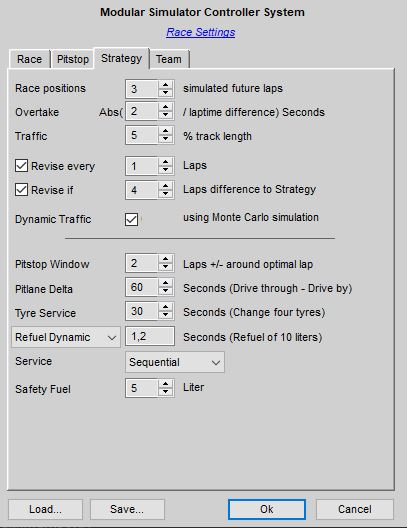
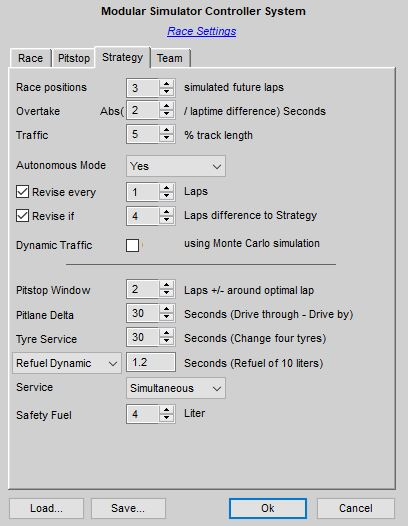
Documentation Update

Changed region(s): [[0.0, 0.0, 0.973, 1.0]]

diff --git a/Docs/Virtual Race Strategist.md b/Docs/Virtual Race Strategist.md
@@ -133,6 +133,8 @@ With the second field, *Overtake Delta*, you specify the number of seconds as ti
 
 You can also activate an automatic revision of a the [currently chosen strategy](https://github.com/SeriousOldMan/Simulator-Controller/wiki/Virtual-Race-Strategist#strategy-handling) with respect to the current race situation and current and maybe upcoming weather conditions. If a better strategy can be derived (depending on available data in the session database), Cato will inform you and you might decide to activate the new strategy. Please note, that you can also ask the Strategist anytime to revise the strategy during a race, if you don't want to enable this automatism. Two different triggers can be defined for the recalculation, either automatic after a number of laps has been driven, or when an unplanned pitstop was neccessary. Please note, that the Strategist will never cancel the current strategy, if he cannot come up with a valid new one. Cancelling the current strategy must always be actively requested.
 
+A very special setting is the *Autonomous Mode*. If you set it to "Yes", it will allow the Assistants (especially the Strategist and the Engineer) to take their own decisions actions to guide you through the race without further confirmations needed from your side. Normally you will be asked to confirm each and every action taken by the Assistants, but this is not the case, when you choose "Yes". The default choice "Custom" let you even further customize the behaviour of the Assistants for every single decision and action. Take a look at the [race settings](https://github.com/SeriousOldMan/Simulator-Controller/wiki/Virtual-Race-Engineer#race-settings) in the "Session Database" and search there for "Confirm" to see all the available settings. Last, but not least, choosing *No* here will overwrite everything set in the "Session Database" and will force the Assistants to ask for confirmation each and every time.
+
 The second group of fields specify the time required for several pitstop activities, as well as the pitstop window, in which the best pitstop lap will be derived. With the value of *Pitstop Delta*, you supply the difference time needed for a normal pitstop (time for pit in and pit out but without any service time minus the time to pass the pit area on the track, i.e. Drive through vs. Drive by), The fields below specify the time required for the various pit services, like changing tyres, refueling, and so on, as well as these times are combined into an overall pitstop service time.
 
 ### Pitstop Recommendation
